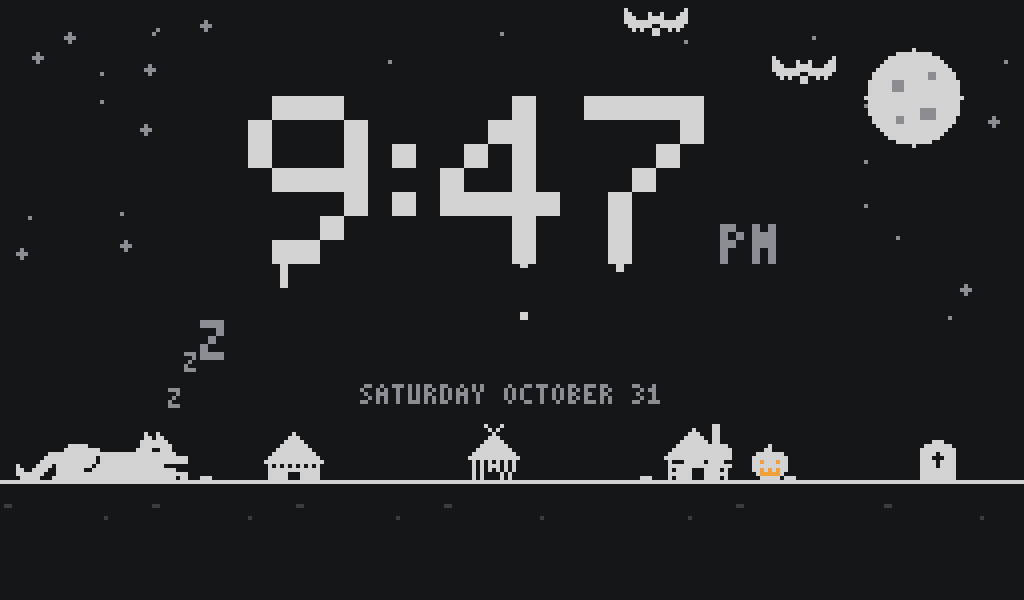
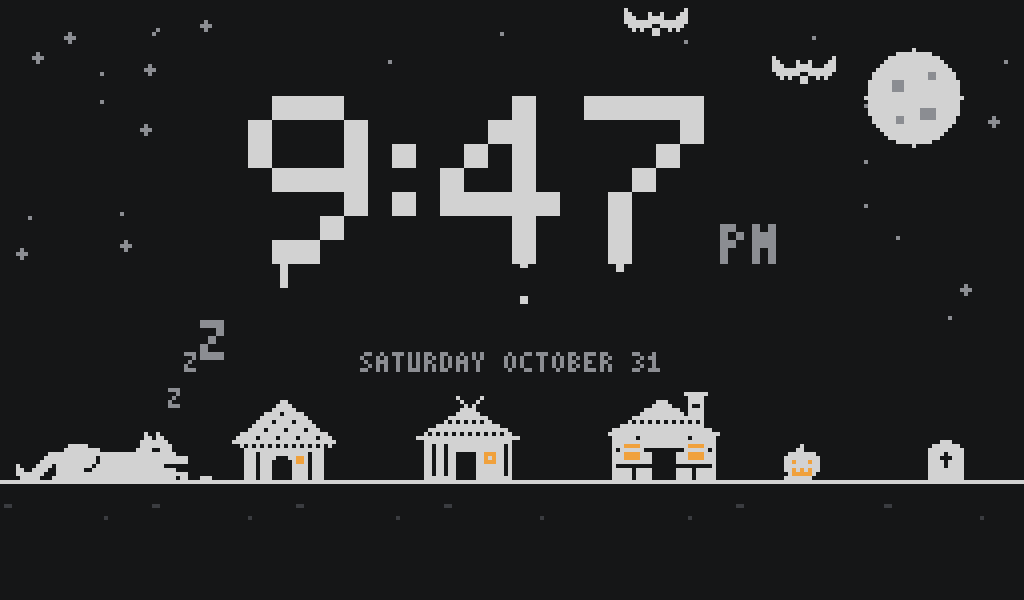
feat: draw the pigs' houses bigger, with lit windows

diff --git a/src/wolf_run/sprites.py b/src/wolf_run/sprites.py
@@ -273,51 +273,75 @@ BAT_DOWN = [
     "##.#.#.##.#.#.##",
     "#......##......#",
 ]
+# The pigs' houses. In these, 'o' is a lit window rather than a hole.
 STRAW_HUT = [
-    ".......#.......",
-    "......###......",
-    ".....#####.....",
-    "....#######....",
-    "...#########...",
-    "..###########..",
-    ".#############.",
-    "###############",
-    ".#o#o#o#o#o#o#.",
-    ".#############.",
-    ".#####ooo#####.",
-    ".#####ooo#####.",
+    "............##............",
+    "...........####...........",
+    "..........######..........",
+    "........####.#####........",
+    ".......############.......",
+    "......####.####.####......",
+    ".....################.....",
+    "....####.####.####.###....",
+    "..######################..",
+    ".#####.####.####.####.###.",
+    "##########################",
+    "..#.#.#.#.#.#.#.#.#.#.#.#.",
+    "...####################...",
+    "...###.############.###...",
+    "...###.####...##oo#.###...",
+    "...###.###.....#oo#.###...",
+    "...###.###.....####.###...",
+    "...###.###.....####.###...",
+    "...###.###.....####.###...",
+    "...###.###.....####.###...",
 ]
 STICK_HOUSE = [
-    ".....#...#.....",
-    "......#.#......",
-    ".......#.......",
-    "......###......",
-    ".....#####.....",
-    "....#######....",
-    "...#########...",
-    "..###########..",
-    ".#############.",
-    "..#o#o#o#o#o#..",
-    "..#o#o###o#o#..",
-    "..#o#o#o#o#o#..",
-    "..#o#oooo#o#o..",
-    "..#o#oooo#o#o..",
+    "..........#.....#.........",
+    "...........#...#..........",
+    "............#.#...........",
+    "...........####...........",
+    "..........######..........",
+    "........##########........",
+    ".......#.#.#.#.#.##.......",
+    ".....################.....",
+    "...####################...",
+    "..#.#.#.#.#.#.#.#.#.#.##..",
+    "##########################",
+    "..######################..",
+    "..##.##.##############.#..",
+    "..##.##.##############.#..",
+    "..##.##.##.....##ooo##.#..",
+    "..##.##.##.....##o#o##.#..",
+    "..##.##.##.....##ooo##.#..",
+    "..##.##.##.....#######.#..",
+    "..##.##.##.....#######.#..",
+    "..##.##.##.....#######.#..",
+    "..########.....#########..",
 ]
 BRICK_HOUSE = [
-    "............##...",
-    ".......#....##...",
-    "......###...##...",
-    ".....#####..##...",
-    "....#######.##...",
-    "...#############.",
-    "..###############",
-    ".################",
-    "#################",
-    ".#ooo#####o####o.",
-    ".################",
-    ".#o####ooo####o#.",
-    ".######ooo######.",
-    ".#o####ooo####o#.",
+    "...................######...",
+    "....................####....",
+    "............###.....####....",
+    "...........#####....#..#....",
+    ".........#########..####....",
+    "........###########.####....",
+    "......##################....",
+    ".....#.#.#.#.#.#.#.#.#.#....",
+    "...#####################....",
+    ".#########################..",
+    "############################",
+    ".######.############.######.",
+    ".##########################.",
+    ".###oooo############oooo###.",
+    ".#.######..........######.#.",
+    ".###oooo###......###oooo###.",
+    ".###oooo###......###oooo###.",
+    ".##########......##########.",
+    ".#........................#.",
+    ".#####.####......####.#####.",
+    ".#####.####......####.#####.",
+    ".#####.####......####.#####.",
 ]
 PUMPKIN = [
     "....#....",

diff --git a/src/wolf_run/clock.py b/src/wolf_run/clock.py
@@ -18,7 +18,7 @@ W, H = 256, 150
 GROUND_Y = 120
 DIGIT_SCALE = 6
 DIGIT_TOP = 24
-DATE_Y = 96
+DATE_Y = 88
 PROMPT = "PRESS THE BUTTON TO RUN"
 PROMPT_SCALE = 2
 
@@ -44,14 +44,14 @@ MOON = (228, 24, 12)
 
 WOLF_X = 4
 HEAD_X = 35  # where his head sits in the lying sprite, for the Zs and the start
-STANDING_SHIFT = 4  # stands a little forward, but clear of the prompt
-SCENERY = [
-    (sprites.STRAW_HUT, 66),
-    (sprites.STICK_HOUSE, 116),
-    (sprites.BRICK_HOUSE, 166),
-    (sprites.TOMBSTONE, 230),
+STANDING_SHIFT = 12  # stands up where he lay, instead of jumping backwards
+HOUSES = [
+    (sprites.STRAW_HUT, 58),
+    (sprites.STICK_HOUSE, 104),
+    (sprites.BRICK_HOUSE, 152),
 ]
-PUMPKIN_X = 188
+TOMBSTONE_X = 232
+PUMPKIN_X = 196
 
 BREATH = 3.0
 SNORE_CYCLE = 3.6
@@ -157,7 +157,7 @@ def drip(t: float, index: int) -> tuple[int, int | None]:
     p = (t / DRIP_CYCLE + index * 0.29) % 1
     if p < 0.75:
         return 1 + int(p / 0.75 * 7), None
-    return 1, int((p - 0.75) / 0.25 * 18)
+    return 1, int((p - 0.75) / 0.25 * 10)
 
 
 def draw_clock(
@@ -241,8 +241,10 @@ def _ground(canvas: Canvas, t: float, palette: Palette) -> None:
             canvas.fill(x, GROUND_Y - 1, 3, 1, palette.ink)
         else:
             canvas.fill(x, GROUND_Y + 3 + kind * 3, 3 - kind, 1, palette.soft)
-    for grid, x in SCENERY:
-        paint(canvas, grid, x, GROUND_Y - len(grid), palette.ink, palette.bg)
+    for grid, x in HOUSES:
+        paint(canvas, grid, x, GROUND_Y - len(grid), palette.ink, palette.glow)
+    tomb = sprites.TOMBSTONE
+    paint(canvas, tomb, TOMBSTONE_X, GROUND_Y - len(tomb), palette.ink, palette.bg)
     flicker = palette.glow if int(t * 7) % 5 else palette.dim
     pumpkin = sprites.PUMPKIN
     paint(canvas, pumpkin, PUMPKIN_X, GROUND_Y - len(pumpkin), palette.ink, flicker)

diff --git a/tests/unit/test_clock.py b/tests/unit/test_clock.py
@@ -1,4 +1,5 @@
 from datetime import datetime
+from itertools import pairwise
 
 import pytest
 
@@ -141,10 +142,19 @@ def clock_pixels(t):
     return canvas.pixels
 
 
-def test_standing_wolf_stays_clear_of_the_prompt():
-    standing = clock.wolf_pose(12.0, primed_at=10.0)
-    head_right = clock.WOLF_X + standing.shift + len(standing.grid[0])
-    prompt_left = (clock.W - clock.text_width(clock.PROMPT, clock.PROMPT_SCALE)) // 2
+def test_wolf_stays_clear_of_the_prompt_whenever_it_shows():
+    prompt_bottom = clock.DATE_Y - 2 + 5 * clock.PROMPT_SCALE
 
-    ear_and_head_right = head_right - 6  # the snout is below the prompt's baseline
-    assert ear_and_head_right < prompt_left
+    for step in range(60):
+        t = 10.0 + step / 15
+        if clock.prompt_visible(t, primed_at=10.0):
+            pose = clock.wolf_pose(t, primed_at=10.0)
+            assert clock.GROUND_Y - len(pose.grid) - pose.lift >= prompt_bottom
+
+
+def test_houses_sit_on_the_ground_without_overlapping():
+    spans = sorted((x, x + len(grid[0])) for grid, x in clock.HOUSES)
+
+    for (_, right), (left, _) in pairwise(spans):
+        assert right < left
+    assert spans[0][0] > clock.WOLF_X + len(clock.sprites.WOLF_SLEEP_A[0])
